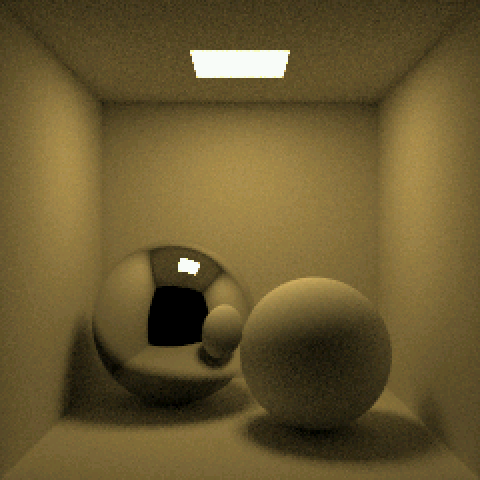
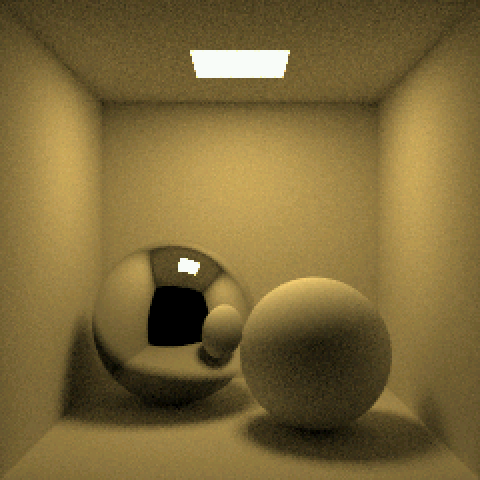
Cornell box: exposure 1.4
Brighter, closer to the classic reference rendering. Five interactions per
path instead of three was tried too: only 3-4% brighter for 35% longer
passes, so paths stay at three. All modes still bit-identical on the board.

diff --git a/app/cornell_scene.py b/app/cornell_scene.py
@@ -39,7 +39,7 @@ BLOCK = (
     0x3F39999A, 0x3F35C28F, 0x3F2E147B, 0x3F2147AE, 0x3D851EB8, 0x3D4CCCCD,
     0x3E0F5C29, 0x3EE66666, 0x3DBA5E35, 0x3F333333, 0x3E4CCCCD, 0x3EC28F5C,
     0x3D23D70A, 0x40A00000, 0x3F400000, 0x3F400000, 0x3F400000, 0x3E99999A,
-    0x3E800000, 0x3F266666, 0x3D800000, 0x40800000, 0x3F733333, 0x3F800000,
+    0x3E800000, 0x3F266666, 0x3D800000, 0x40800000, 0x3F733333, 0x3FB33333,
     0x41FFFDF4, 0x427FFEFA, 0x00000000, 0x3F2A3D71, 0x3E19999A, 0x3E99999A,
     0x3F73CC22, 0xBE9C30A5, 0x3E19999A, 0x3E19999A, 0x3E19999A, 0xBE19999A,
     0xBE19999A, 0xBE19999A, 0x3EAB851F, 0x3E99999A, 0x3F2147AE, 0x3F7490EF,

diff --git a/tools/cornell_scene.py b/tools/cornell_scene.py
@@ -20,7 +20,7 @@ ROOT = pathlib.Path(__file__).resolve().parent.parent
 
 SIZE = 240  # image width and height
 DEPTH = 3  # surface interactions per path
-EXPOSURE = 1.0
+EXPOSURE = 1.4
 
 CAMERA = (0.5, 0.5, -1.35)
 WHITE = (0.725, 0.71, 0.68)  # the classic Cornell box reflectances

diff --git a/NOTES.md b/NOTES.md
@@ -191,6 +191,9 @@ mirror sphere.
   (`HIT_FACE`) for the normal, and the boxes shadow the light. 1.29 s per
   pass (each box test costs 6 divides, for camera and shadow rays alike)
   vs 0.74 s for the spheres. All modes are bit-identical to the reference.
+- Exposure 1.4 (was 1.0), to get closer to the classic reference rendering's
+  brightness. 5 interactions per path instead of 3 was tried and dropped:
+  only 3-4% brighter, for 35% longer passes (0.98 s spheres, 1.76 s boxes).
 - **Slice-assigning into a big bytearray is very slow in CircuitPython**:
   zeroing the 690 KB accumulation buffer row by row (`a[i:j] = zeros`, 2880
   bytes each) took 42 ms per row, 10 s in all. `mem.zero()` (viper) takes
